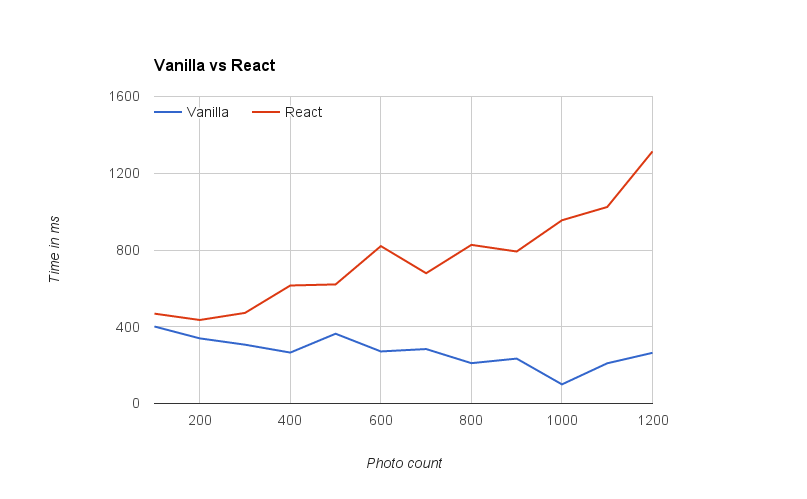
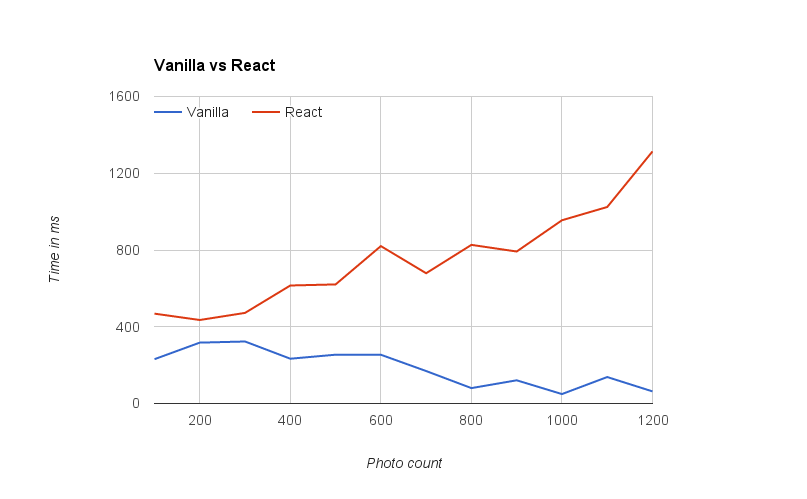
Release 2015-07-03:14:42:34

diff --git a/blog/react-plus-performance-equals-what/index.html b/blog/react-plus-performance-equals-what/index.html
@@ -253,7 +253,7 @@
 
   <div class="container"><div class="left column">
 
-<p><strong>Update 7/3/15: I failed to use the minified version of React in the test, which is the production version. Without that the performance characteristics are worse. This was my mistake, and I apologise. I have since updated the test, the graphs and commentary. The good news is that some of the numbers <em>did</em> come down, but not by enough for my conclusions to change.</strong></p>
+<p><strong>Update 7/3/15: I failed to use the minified version of React in the test, which is the production version. Without that the performance characteristics are worse. This was my mistake, and I apologise. I have since re-run the test, updated the graphs and any commentary. The good news is that some of the numbers <em>did</em> come down, but not by enough for my conclusions to change.</strong></p>
 
 <hr />
 
@@ -411,6 +411,8 @@
 
 <p>As above, the DOM manipulation time remains relatively steady throughout, at around ~2ms. It’s probably so light because my MacBook Pro has enough CPU to throw at the problem.</p>
 
+<p>I have no idea what’s happened at the end there. Either V8 has optimized the JS, or there was some kind of reporting error.</p>
+
 <h3 id="mobile-vanilla">Mobile: Vanilla</h3>
 
 <figure>
@@ -423,7 +425,7 @@
 
 <p>This chart is a bit of a bamboozler, to be honest. Since it’s getting faster with each run I can only conclude that V8 is being a smartypants and optimizing things on the go, ruining a perfectly good test. It’s interesting (and good!) that it seems able to do that with my plain old Vanilla JS, but it doesn’t seem to get as far with React. That makes sense since my code is super simple, and React, very necessarily, is not.</p>
 
-<p>However, we can still see that the workload is in the 250-375ms range, which is way higher than I would personally like for work of this kind. I reckon you could work around it somewhat by attaching fewer elements on each pass, and keeping the user updated on your progress. With the Vanilla approach that’s perfectly plausible.</p>
+<p>However, we can still see that the workload is in the 80-335ms range, which is way higher than I would personally like for work of this kind. I reckon you could work around it somewhat by attaching fewer elements on each pass, and keeping the user updated on your progress. With the Vanilla approach that’s perfectly plausible.</p>
 
 <h3 id="bonus-round-react-vs-vanilla">Bonus round: React vs Vanilla</h3>
 
